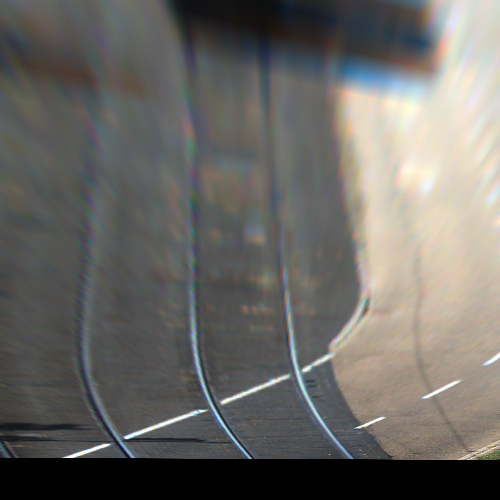
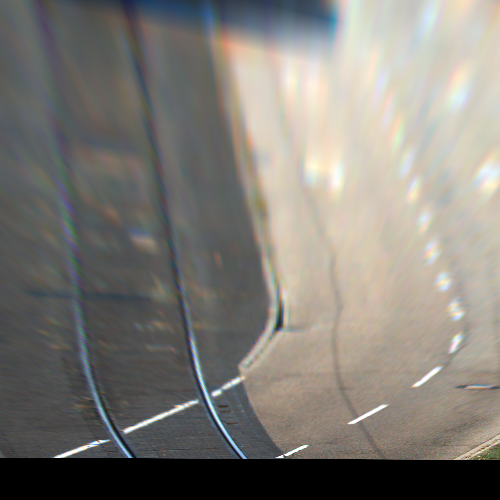
week1: geometry pipeline integration complete — lidar projection, IPM, unit tests

diff --git a/src/geometry/run_pipeline.py b/src/geometry/run_pipeline.py
@@ -1,0 +1,110 @@
+# src/geometry/run_pipeline.py
+
+from pathlib import Path
+import cv2
+import numpy as np
+
+from src.geometry.projection import build_intrinsic_matrix, build_extrinsic_matrix, project_points
+from src.geometry.lidar_projection import (
+    load_velo_to_cam, load_cam_to_cam, load_lidar_points,
+    project_lidar_to_image, colorize_by_depth
+)
+from src.geometry.homography_bev import compute_homography, apply_ipm
+from src.utils.logger import get_logger
+
+logger = get_logger(__name__)
+
+
+def run_geometry_pipeline(
+    calib_dir: Path,
+    sequence_dir: Path,
+    frame_id: str = "0000000005"
+) -> None:
+    """
+    End-to-end geometry pipeline for one KITTI frame.
+
+    Stage 1: LiDAR-to-camera projection with depth colormap overlay.
+    Stage 2: Inverse Perspective Mapping to produce top-down BEV view.
+
+    All outputs saved to assets/ for README display.
+    """
+    logger.info("=== Week 1 Geometry Pipeline ===")
+
+    # ── Stage 1: LiDAR projection ─────────────────────────────────────────────
+    logger.info("Stage 1: LiDAR-to-camera projection")
+
+    image_path = sequence_dir / "image_02" / "data" / f"{frame_id}.png"
+    lidar_path = sequence_dir / "velodyne_points" / "data" / f"{frame_id}.bin"
+
+    image = cv2.imread(str(image_path))
+    if image is None:
+        logger.error(f"Could not load image: {image_path}")
+        raise SystemExit(1)
+    logger.info(f"Loaded camera frame: {image.shape} from {image_path.name}")
+
+    T_velo_to_cam = load_velo_to_cam(str(calib_dir / "calib_velo_to_cam.txt"))
+    R_rect, P_rect = load_cam_to_cam(str(calib_dir / "calib_cam_to_cam.txt"), cam_id=2)
+
+    points_xyz = load_lidar_points(str(lidar_path))
+
+    pixels, depths = project_lidar_to_image(
+        points_xyz, T_velo_to_cam, R_rect, P_rect,
+        image_shape=image.shape[:2]
+    )
+
+    colors = colorize_by_depth(depths, max_depth=50.0)
+    overlay = image.copy()
+    for i, (u, v) in enumerate(pixels):
+        cv2.circle(overlay, (u, v), radius=2, color=colors[i].tolist(), thickness=-1)
+
+    lidar_output = Path("assets/lidar_overlay_kitti.png")
+    cv2.imwrite(str(lidar_output), overlay)
+    logger.info(f"LiDAR overlay saved to {lidar_output}")
+
+    # ── Stage 2: IPM BEV warp ─────────────────────────────────────────────────
+    logger.info("Stage 2: Inverse Perspective Mapping")
+
+    # Source points manually selected on frame 0000000000.png road surface.
+    src_points = np.float32([
+        [120, 348],
+        [712, 336],
+        [458, 191],
+        [389, 195],
+    ])
+    dst_points = np.float32([
+        [ 50, 450],
+        [450, 450],
+        [450,  50],
+        [ 50,  50],
+    ])
+
+    H = compute_homography(src_points, dst_points)
+    bev = apply_ipm(image, H, output_size=(500, 500))
+
+    bev_output = Path("assets/bev_ipm_kitti.png")
+    cv2.imwrite(str(bev_output), bev)
+    logger.info(f"BEV output saved to {bev_output}")
+
+    # ── Stage 3: verify projection module independently ───────────────────────
+    logger.info("Stage 3: Verifying synthetic projection unit test")
+
+    K = build_intrinsic_matrix(fx=718.856, fy=718.856, cx=607.193, cy=185.216)
+    R = np.eye(3)
+    t = np.zeros(3)
+    build_extrinsic_matrix(R, t)
+
+    test_point = np.array([[0.0, 0.0, 10.0]])
+    result = project_points(test_point, K, R, t)
+    assert np.allclose(result[0], [607.193, 185.216], atol=1e-3), \
+        f"Projection unit test failed: got {result[0]}"
+    logger.info("Synthetic projection unit test passed")
+
+    logger.info("=== Pipeline complete ===")
+
+
+if __name__ == "__main__":
+    run_geometry_pipeline(
+        calib_dir=Path("src/geometry/data/2011_09_26"),
+        sequence_dir=Path("src/geometry/data/2011_09_26_drive_0002_sync"),
+        frame_id="0000000005"
+    )